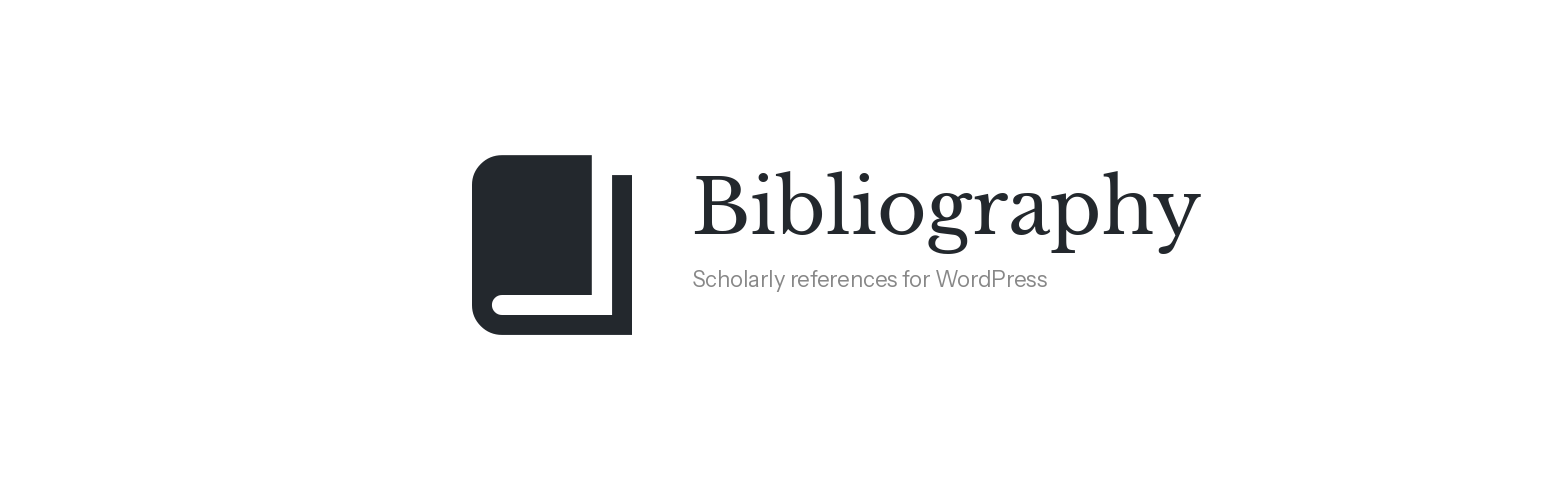
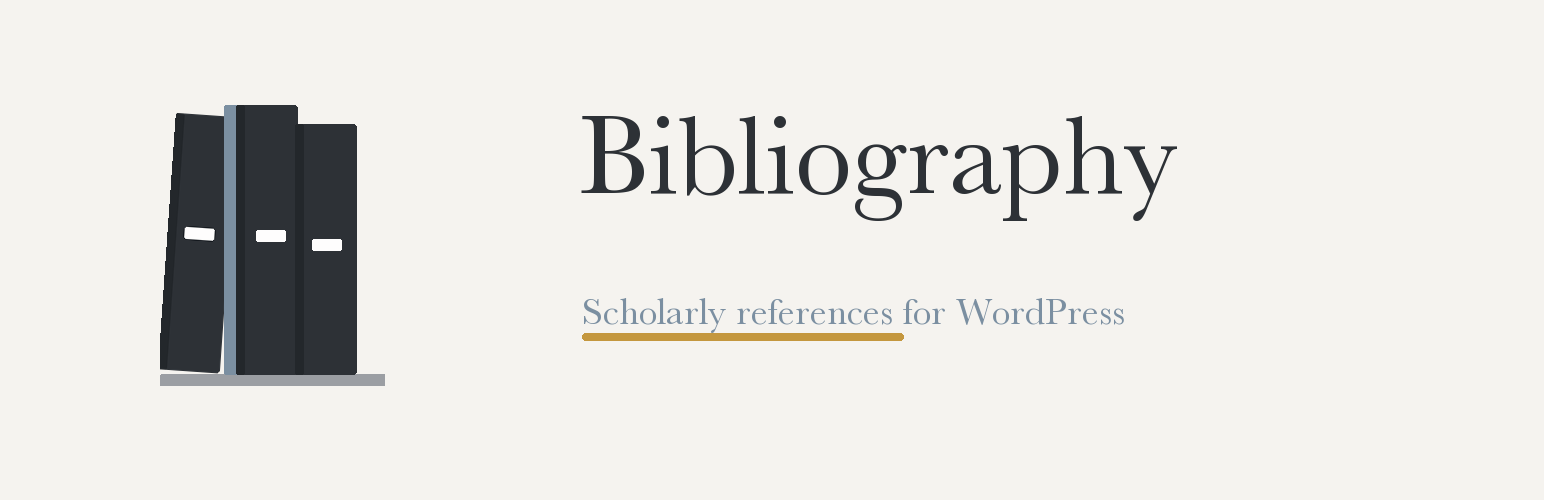
docs(branding): refresh WordPress.org assets

Changed region(s): [[0.2798, 0.21, 0.7772, 0.69], [0.0933, 0.21, 0.2487, 0.78]]

diff --git a/scripts/generate_brand_assets.py b/scripts/generate_brand_assets.py
@@ -1,0 +1,112 @@
+from pathlib import Path
+from PIL import Image, ImageDraw, ImageFont
+
+ROOT = Path('/Users/danknauss/Developer/GitHub/wp-bibliography-block')
+ASSETS = ROOT / '.wordpress-org'
+SOURCE = ASSETS / 'source'
+
+BG = '#F5F3EF'
+CHARCOAL = '#2D3136'
+EDGE = '#23272B'
+SLATE = '#7B8FA1'
+SHELF = '#9B9EA3'
+ACCENT = '#C4973E'
+SUBTITLE = '#7B8FA1'
+LABEL = (255, 255, 255, 217)
+FONT = '/System/Library/Fonts/Supplemental/Baskerville.ttc'
+
+
+def rounded(draw, xy, radius, fill):
+    draw.rounded_rectangle(xy, radius=radius, fill=fill)
+
+
+def draw_bookshelf_mark(size, background=BG):
+    image = Image.new('RGBA', size, background)
+    draw = ImageDraw.Draw(image)
+    sx = size[0] / 140
+    sy = size[1] / 175
+
+    rounded(draw, (0, int(168 * sy), size[0], int(175 * sy)), max(1, int(1 * min(sx, sy))), SHELF)
+
+    # left book on a rotated layer
+    layer = Image.new('RGBA', size, (0, 0, 0, 0))
+    ld = ImageDraw.Draw(layer)
+    x0, y0 = 0, int(8 * sy)
+    w, h = int(38 * sx), int(160 * sy)
+    rounded(ld, (x0, y0, x0 + w, y0 + h), max(2, int(2 * min(sx, sy))), CHARCOAL)
+    rounded(ld, (x0, y0, x0 + max(3, int(5 * sx)), y0 + h), max(1, int(1 * min(sx, sy))), EDGE)
+    rounded(ld, (int(11 * sx), int(78 * sy), int(29 * sx), int(85 * sy)), max(1, int(1.5 * min(sx, sy))), LABEL)
+    layer = layer.rotate(-4, center=(int(42 * sx), int(148 * sy)), resample=Image.Resampling.BICUBIC)
+    image.alpha_composite(layer)
+
+    # center book
+    draw = ImageDraw.Draw(image)
+    x = int(40 * sx)
+    rounded(draw, (x, 0, x + int(12 * sx), int(168 * sy)), max(1, int(1 * min(sx, sy))), SLATE)
+    rounded(draw, (x + int(8 * sx), 0, x + int(46 * sx), int(168 * sy)), max(2, int(2 * min(sx, sy))), CHARCOAL)
+    rounded(draw, (x + int(8 * sx), 0, x + int(13 * sx), int(168 * sy)), max(1, int(1 * min(sx, sy))), EDGE)
+    rounded(draw, (x + int(20 * sx), int(78 * sy), x + int(38 * sx), int(85 * sy)), max(1, int(1.5 * min(sx, sy))), LABEL)
+
+    # right book
+    x = int(84 * sx)
+    y = int(12 * sy)
+    rounded(draw, (x, y, x + int(38 * sx), y + int(156 * sy)), max(2, int(2 * min(sx, sy))), CHARCOAL)
+    rounded(draw, (x, y, x + max(3, int(5 * sx)), y + int(156 * sy)), max(1, int(1 * min(sx, sy))), EDGE)
+    rounded(draw, (x + int(11 * sx), y + int(72 * sy), x + int(29 * sx), y + int(79 * sy)), max(1, int(1.5 * min(sx, sy))), LABEL)
+
+    return image
+
+
+def fit_font(text, max_width, start_size, min_size=12):
+    dummy = Image.new('RGB', (10, 10))
+    d = ImageDraw.Draw(dummy)
+    for size in range(start_size, min_size - 1, -1):
+        font = ImageFont.truetype(FONT, size)
+        bbox = d.textbbox((0, 0), text, font=font)
+        if bbox[2] - bbox[0] <= max_width:
+            return font
+    return ImageFont.truetype(FONT, min_size)
+
+
+def draw_banner(width, height, path):
+    image = Image.new('RGBA', (width, height), BG)
+    draw = ImageDraw.Draw(image)
+
+    scale = min(width / 960, height / 280)
+    content_w = int(960 * scale)
+    content_h = int(280 * scale)
+    offset_x = (width - content_w) // 2
+    offset_y = (height - content_h) // 2
+
+    mark = draw_bookshelf_mark((int(140 * scale), int(175 * scale)))
+    image.alpha_composite(mark, (offset_x + int(100 * scale), offset_y + int(50 * scale)))
+
+    title = 'Bibliography'
+    subtitle = 'Scholarly references for WordPress'
+    title_x = offset_x + int(360 * scale)
+    title_y = offset_y + int(40 * scale)
+    title_font = fit_font(title, int(520 * scale), int(72 * scale), min_size=max(24, int(32 * scale)))
+    subtitle_font = ImageFont.truetype(FONT, max(14, int(24 * scale)))
+
+    draw.text((title_x, title_y), title, font=title_font, fill=CHARCOAL)
+    bbox = draw.textbbox((title_x, title_y), title, font=title_font)
+    sub_y = offset_y + int(178 * scale) - (draw.textbbox((0,0), subtitle, font=subtitle_font)[3] // 2)
+    draw.text((offset_x + int(362 * scale), sub_y), subtitle, font=subtitle_font, fill=SUBTITLE)
+    draw.rounded_rectangle((offset_x + int(362 * scale), offset_y + int(192 * scale), offset_x + int(562 * scale), offset_y + int(196 * scale)), radius=max(1, int(2 * scale)), fill=ACCENT)
+
+    image.save(path)
+
+
+def main():
+    ASSETS.mkdir(exist_ok=True)
+    SOURCE.mkdir(exist_ok=True)
+    draw_banner(1544, 500, ASSETS / 'banner-1544x500.png')
+    draw_banner(772, 250, ASSETS / 'banner-772x250.png')
+    draw_bookshelf_mark((256, 256)).save(ASSETS / 'icon-256x256.png')
+    draw_bookshelf_mark((128, 128)).save(ASSETS / 'icon-128x128.png')
+    (SOURCE / 'brand-notes.md').write_text(
+        '# Brand notes\n\nBanner and icon assets based on the approved 960×280 SVG concept with a three-book shelf mark, Baskerville-style wordmark, slate subtitle, and gold underline rule. Generated via `/Users/danknauss/Developer/GitHub/wp-bibliography-block/scripts/generate_brand_assets.py`.\n'
+    )
+
+if __name__ == '__main__':
+    main()

diff --git a/.wordpress-org/source/brand-notes.md b/.wordpress-org/source/brand-notes.md
@@ -1,0 +1,16 @@
+# Brand notes
+
+Banner and icon assets are based on the approved SVG concept provided by Claude, then adapted into repository-ready WordPress.org raster assets.
+
+Files:
+- `/Users/danknauss/Developer/GitHub/wp-bibliography-block/.wordpress-org/source/banner-concept.svg`
+- `/Users/danknauss/Developer/GitHub/wp-bibliography-block/.wordpress-org/source/brand-mark-bookshelf.svg`
+- `/Users/danknauss/Developer/GitHub/wp-bibliography-block/scripts/generate_brand_assets.py`
+
+Current visual system:
+- three-book shelf mark
+- inward-leaning left book toward the stack
+- Baskerville-style wordmark
+- slate subtitle
+- gold underline rule
+- warm off-white background

diff --git a/README.md b/README.md
@@ -21,6 +21,8 @@ Launch a disposable WordPress instance with the plugin preinstalled: [Try the Bi
 
 ![](.wordpress-org/banner-1544x500.png)
 
+WordPress.org branding assets, including the bookshelf icon and banner source files, live in `/Users/danknauss/Developer/GitHub/wp-bibliography-block/.wordpress-org/` and `/Users/danknauss/Developer/GitHub/wp-bibliography-block/.wordpress-org/source/`.
+
 ## Screenshots
 
 | Editor with citations | Front-end output |
